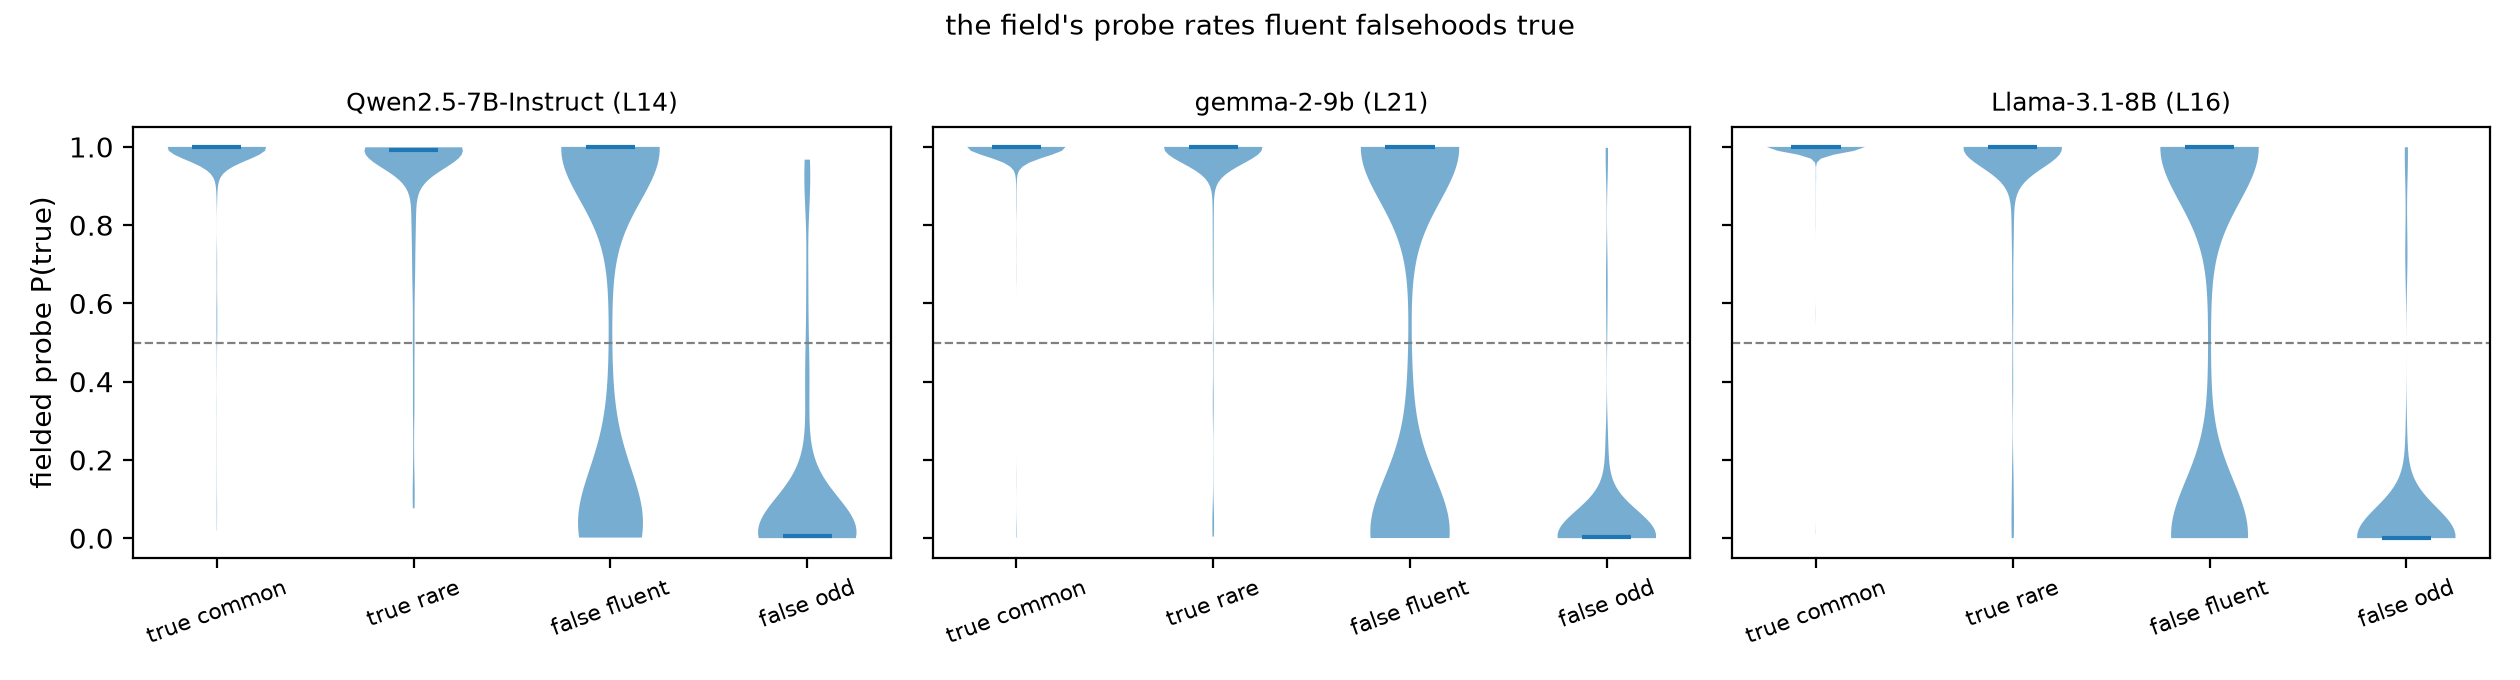
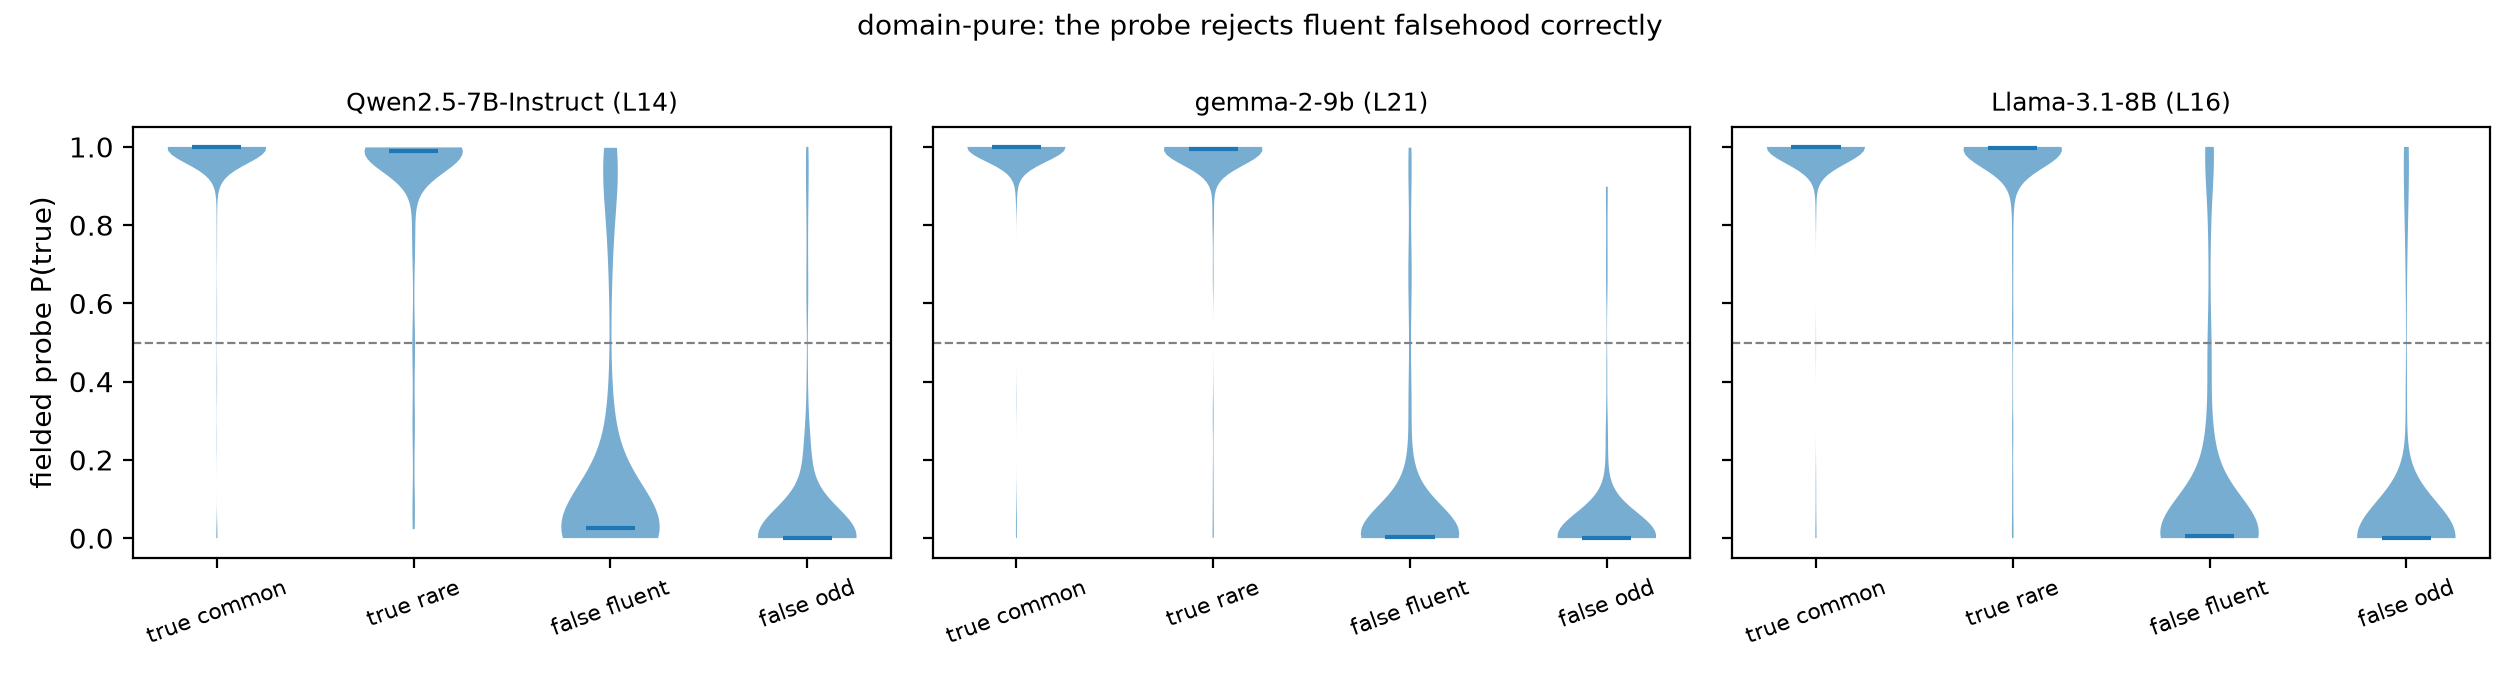
Figure titles corrected to match domain-pure data: dead claims ('probe rates fluent falsehoods true', 'error lives in a low-rank manifold', 'probe is fooled, model is not') replaced with what the plots now show

diff --git a/src/report/make_figures.py b/src/report/make_figures.py
@@ -1,11 +1,16 @@
 """
 Figures, regenerated from results/stage3_saplma_*.json only (never hand drawn).
 
-fig_layer_sweep: off diagonal AUROC vs layer for each model, with the in
-distribution curve for reference. The persistent gap across depth is the point.
+All figures take `domain=`. Pass domain="cities": the pooled corpus confounds
+domain with truth across the diagonal/off-diagonal split, so pooled panels show an
+artifact, not a confound (notes/weakness_audit.md A1).
 
-fig_cell_scores: distribution of the fielded probe's P(true) per cell at each
-model's headline layer. FT (fluent false) piling up near 1.0 is the mechanism.
+fig_layer_sweep: off diagonal AUROC vs layer, with the in-distribution curve.
+fig_cell_scores: fielded P(true) per cell at the headline layer.
+fig_causal_manifold: mediation of the fluent-lie error by the frequency manifold.
+fig_dissociation: probe readout vs the model's own judgment, per cell.
+fig_generation_dissociation: the surviving result — probe vs model on statements
+the model generated and then disowned.
 """
 
 from __future__ import annotations
@@ -45,7 +50,8 @@ def fig_layer_sweep(out: str | Path | None = None, domain: str | None = None):
     ax.set_ylim(0.0, 1.03)
     ax.set_xlabel("relative depth")
     ax.set_ylabel("AUROC")
-    ax.set_title("off diagonal (solid) vs in distribution (dotted)")
+    ax.set_title("off diagonal (solid) vs in distribution (dotted)\n"
+                 "domain held fixed: no collapse", fontsize=10)
     ax.legend(fontsize=8)
     fig.tight_layout()
     out = Path(out or RESULTS / "fig_layer_sweep.png")
@@ -80,7 +86,7 @@ def fig_cell_scores(out: str | Path | None = None, domain: str | None = None):
         ax.axhline(0.5, ls="--", lw=0.8, color="gray")
         ax.set_title(art["model"].split("/")[-1] + f" (L{fh['layer']})", fontsize=9)
     axes[0].set_ylabel("fielded probe P(true)")
-    fig.suptitle("the field's probe rates fluent falsehoods true", fontsize=10)
+    fig.suptitle("domain-pure: the probe rejects fluent falsehood correctly", fontsize=10)
     fig.tight_layout()
     out = Path(out or RESULTS / "fig_cell_scores.png")
     fig.savefig(out, dpi=200)
@@ -113,8 +119,8 @@ def fig_causal_manifold(out: str | Path | None = None, domain: str | None = None
     ax.set_xscale("log", base=2)
     ax.set_xlabel("manifold dimension k")
     ax.set_ylabel("fraction of FT error causally mediated")
-    ax.set_title("hallucination error lives in a low-rank frequency manifold\n"
-                 "(dotted = random subspace of equal size)")
+    ax.set_title("frequency-manifold mediation of the fluent-lie error\n"
+                 "(dotted = random subspace of equal size)", fontsize=10)
     ax.legend(fontsize=8)
     fig.tight_layout()
     out = Path(out or RESULTS / "fig_causal_manifold.png")
@@ -154,7 +160,7 @@ def fig_dissociation(out: str | Path | None = None, domain: str | None = None):
         ax.set_ylim(0, 1.05)
     axes[0].set_ylabel("P(true)")
     axes[0].legend(fontsize=8, loc="upper right")
-    fig.suptitle("the probe is fooled by fluent lies; the model is not", fontsize=11)
+    fig.suptitle("domain-pure: probe and model agree on authored fluent lies", fontsize=11)
     fig.tight_layout()
     out = Path(out or RESULTS / "fig_dissociation.png")
     fig.savefig(out, dpi=200)
